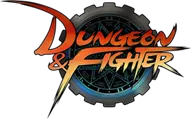
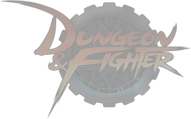
💄 style: 던파 프로필 카드 CSS 완료

diff --git a/src/components/DFCard.tsx b/src/components/DFCard.tsx
@@ -2,6 +2,7 @@ import { useEffect, useState } from 'react';
 import { getUser } from '../services/dfAPI';
 import logo_big from '../assets/던파로고.png';
 import logo_small from '../assets/던파로고미니.png';
+import fame from '../assets/명성치.png';
 
 const serverId = 'hilder';
 const charName = '변신캐설월화';
@@ -40,25 +41,35 @@ export default function DFCard() {
   return (
     <>
       <h1>dfCard Component</h1>
-      <div className="relative flex h-[160px] w-[260px] justify-start overflow-hidden rounded-xl border-1 bg-red-200 bg-gradient-to-r from-[#141E30] to-[#243B55] p-[10px]">
-        <img src={logo_small} className="w-[50px] " alt="미니로고" />
+      <div className="relative flex h-[160px] w-[260px] justify-start overflow-hidden rounded-xl bg-gradient-to-t from-[var(--color-gray7)] to-[var(--color-gray4)] p-[10px]">
+        <img
+          src={logo_small}
+          className="absolute w-[35px] select-none"
+          alt="미니로고"
+        />
         <img
           src={`https://img-api.neople.co.kr/df/servers/${serverId}/characters/${characterId}?zoom=1`}
           alt=""
-          className=" border-1 border-red-500"
+          className="absolute top-[-48px] left-[-5px] h-[200px] select-none"
         />
         <img
           src={logo_big}
-          className="absolute top-15 left-[100px] size-[80%] select-none"
+          className="absolute top-10 left-[100px] size-[80%] select-none"
           draggable={false}
           alt="던파로고"
         />
-        <div className="block">
-          <span className="block">{charName}</span>
-          <span className="block">{server}</span>
-          <span className="block">명성치: {myFame}</span>
-          <span className="block">직업: {myJob}</span>
-          <span className="block">레벨: {level}</span>
+        <div className="absolute top-1/4 right-8 block content-center text-center">
+          <span className="textST1 block text-[var(--color-gray3)]">
+            Lv.{level}
+          </span>
+          <span className="textT1 block">{charName}</span>
+          <span className="textST1 block text-[var(--color-gray3)]">
+            {myJob} | {server}
+          </span>
+          <span className="textST1 flex justify-center text-[var(--color-main)]">
+            <img src={fame} alt="" className="mt-[3px] h-[13px] w-[15px]" />
+            {myFame}
+          </span>
         </div>
       </div>
     </>
